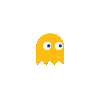
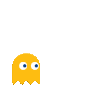
modif graphismes fantomes + pépite

Changed region(s): [[0.12, 0.33, 0.66, 0.87]]

diff --git a/test2.py b/test2.py
@@ -470,7 +470,7 @@ def affiche_plateau(plat,fenetre):
                 fenetre.blit(pepite,(y,x))
             if plat.dico_cartes[plat.position[i,j]].id_fantome!=0 :
                 fenetre.blit(fantome,(y,x))
-                fenetre.blit(police.render(str(plat.dico_cartes[plat.position[i,j]].id_fantome),True,pygame.Color("#FFFFFF")),(y+40,x+8))
+                fenetre.blit(police.render(str(plat.dico_cartes[plat.position[i,j]].id_fantome),True,pygame.Color("#FFFFFF")),(y+10,x+40))
                        
     for i in range(len(plat.dico_joueurs)) :
         x=plat.dico_joueurs[i].carte_position.coord[0]*100
